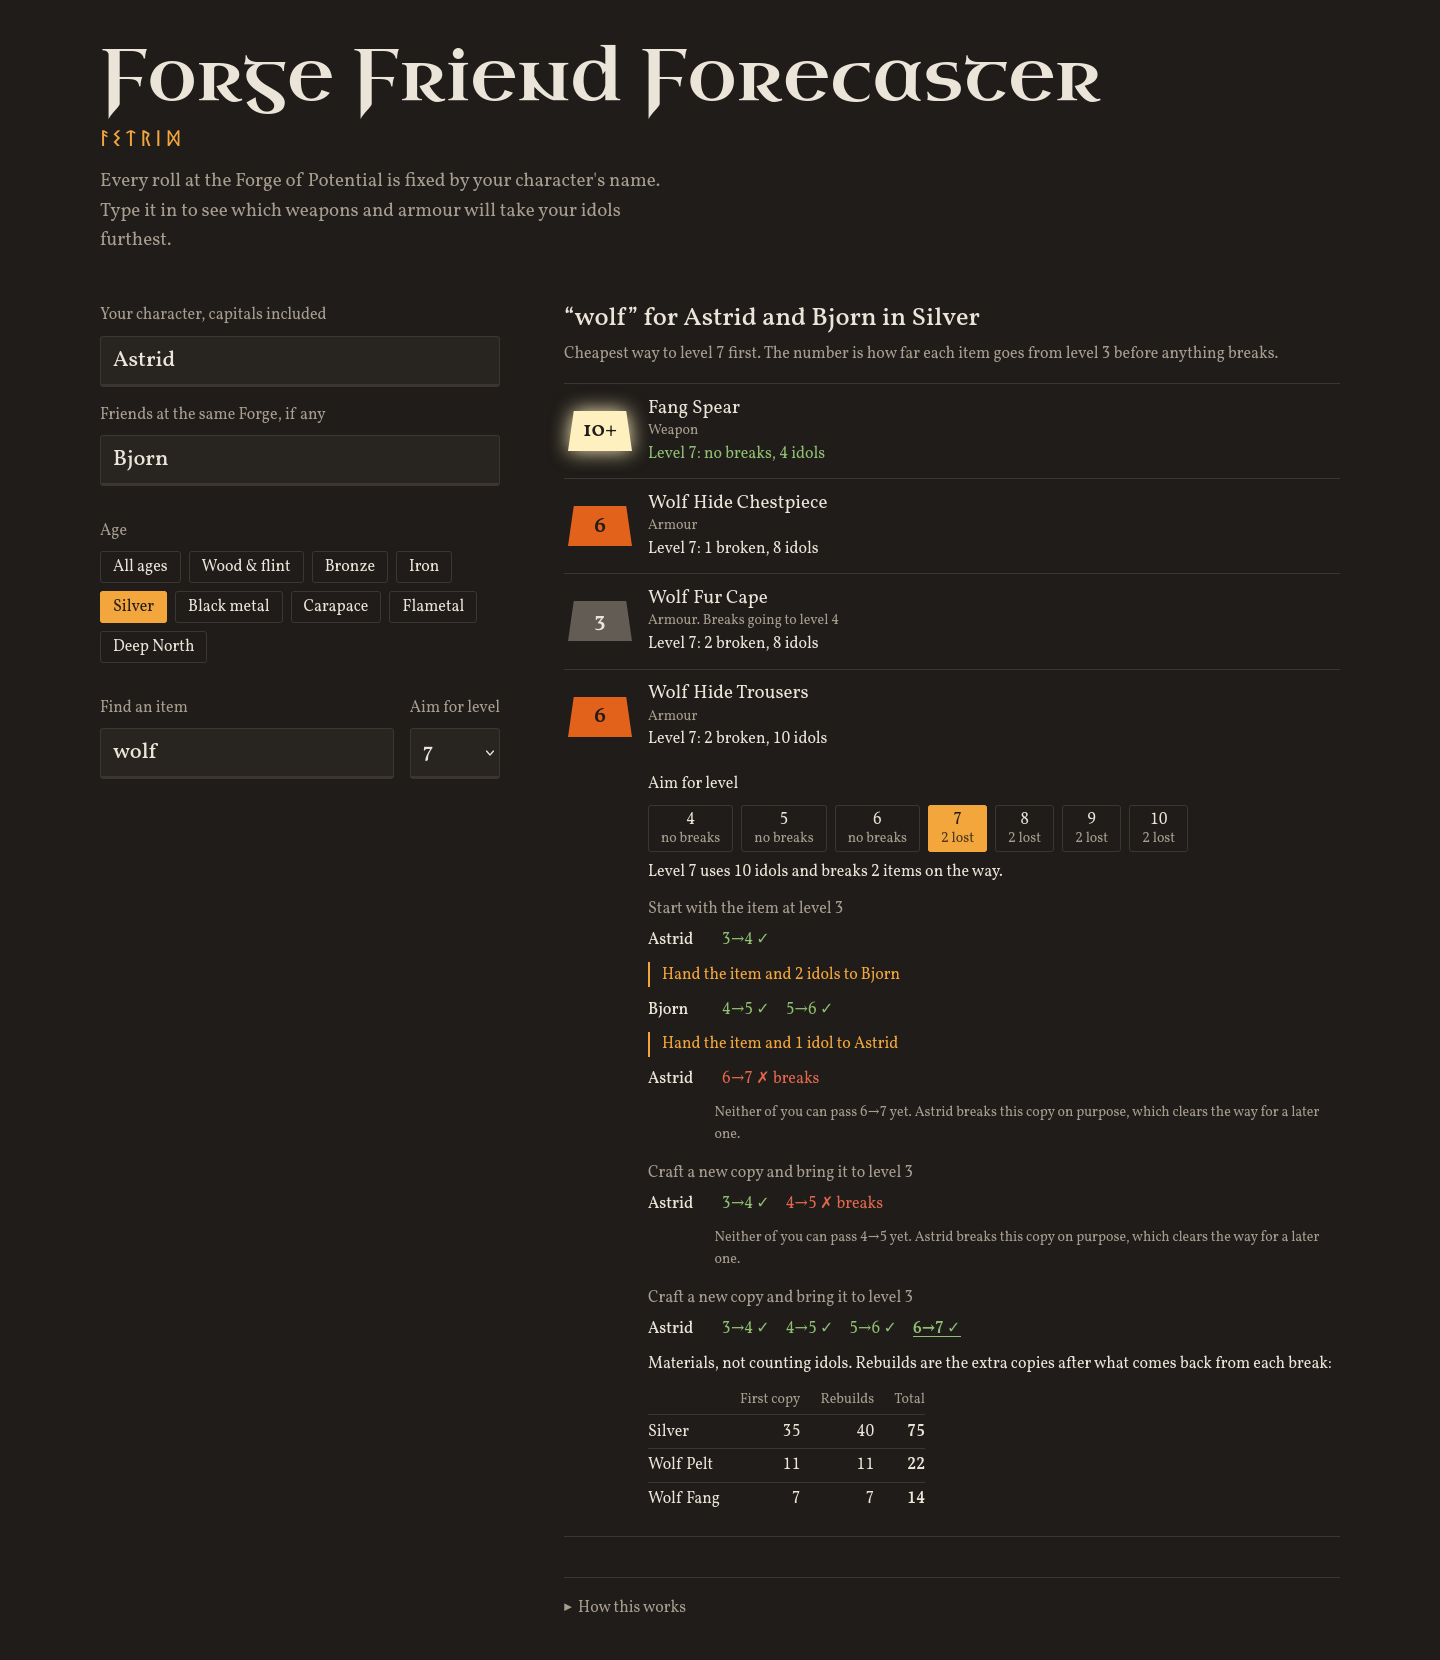
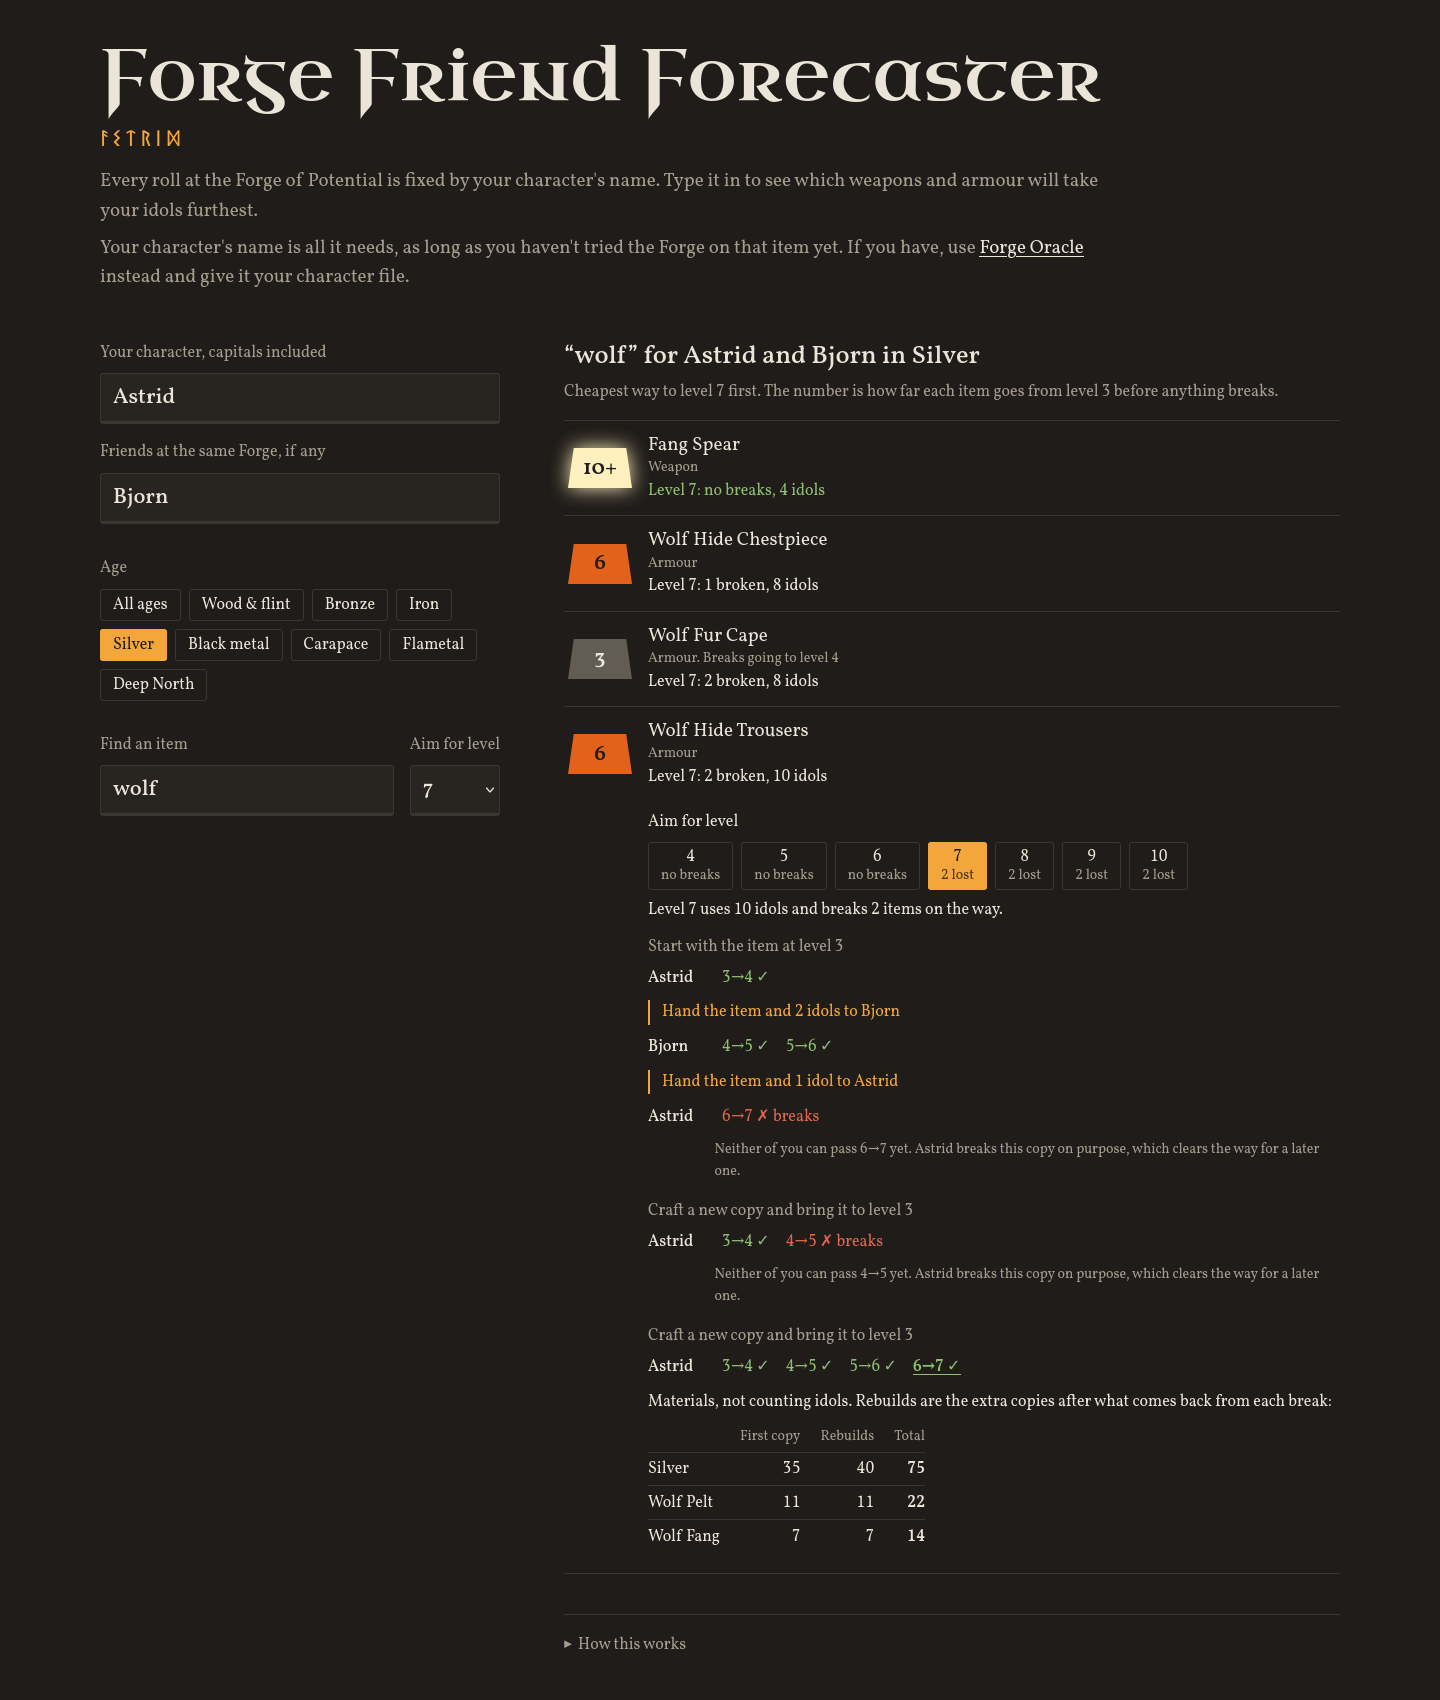
clarify instructions regarding requirement of character file

diff --git a/index.html b/index.html
@@ -44,6 +44,7 @@ main>*,.controls>*,.output>*{min-width:0}
   header{grid-column:1/-1}
   .controls{gap:32px}
   .controls .who{grid-template-columns:1fr}
+  header .lede{max-width:88ch}
 }
 @media (min-width:1080px) and (min-height:760px){.controls{position:sticky;top:32px}}
 /* The font shorthand resets figure style, so restate lining figures for everything inside */
@@ -52,6 +53,8 @@ body *{font-variant-numeric:lining-nums tabular-nums}
 header h1{font:400 clamp(44px,11vw,72px)/1 var(--title);margin:0;color:var(--ash)}
 .runes{font:22px/1.2 var(--rune);letter-spacing:.18em;color:var(--amber);margin:12px 0 0;min-height:1.2em;overflow-wrap:anywhere}
 .lede{color:var(--slag);margin:16px 0 0;max-width:52ch}
+.lede+.lede{margin-top:8px}
+.lede a{color:var(--ash);text-underline-offset:3px}
 
 .field{display:grid;gap:8px}
 .field>span{font-size:16px;color:var(--slag)}
@@ -144,6 +147,7 @@ details.how p{margin:12px 0;font-size:16px;max-width:60ch}
     <h1>Forge Friend Forecaster</h1>
     <p class="runes" id="runes" aria-hidden="true"></p>
     <p class="lede">Every roll at the Forge of Potential is fixed by your character's name. Type it in to see which weapons and armour will take your idols furthest.</p>
+    <p class="lede">Your character's name is all it needs, as long as you haven't tried the Forge on that item yet. If you have, use <a href="https://github.com/papptimus/Forge-Oracle">Forge Oracle</a> instead and give it your character file.</p>
   </header>
 
   <div class="controls">

diff --git a/README.md b/README.md
@@ -2,7 +2,7 @@
 
 See which Valheim weapons and armour will survive the Forge of Potential before you spend an idol, and plan who in your group should press the button at each step.
 
-Forge of Potential rolls are fixed in advance. Each item type and level step has its own roll, and the first one comes from your character's name, so everything can be worked out from the name alone. No save file is needed.
+Forge of Potential rolls are fixed in advance. Each item type and level step has its own roll, and the first one comes from your character's name, so any item you haven't tried at the Forge yet can be worked out from the name alone, with no save file. For an item you have tried, use [Forge Oracle](https://github.com/papptimus/Forge-Oracle) with your character file instead.
 
 Unofficial fan tool. Not affiliated with or endorsed by Iron Gate AB. Builds on [Forge Oracle](https://github.com/papptimus/Forge-Oracle) by papptimus, which worked out the roll mechanics.
 
